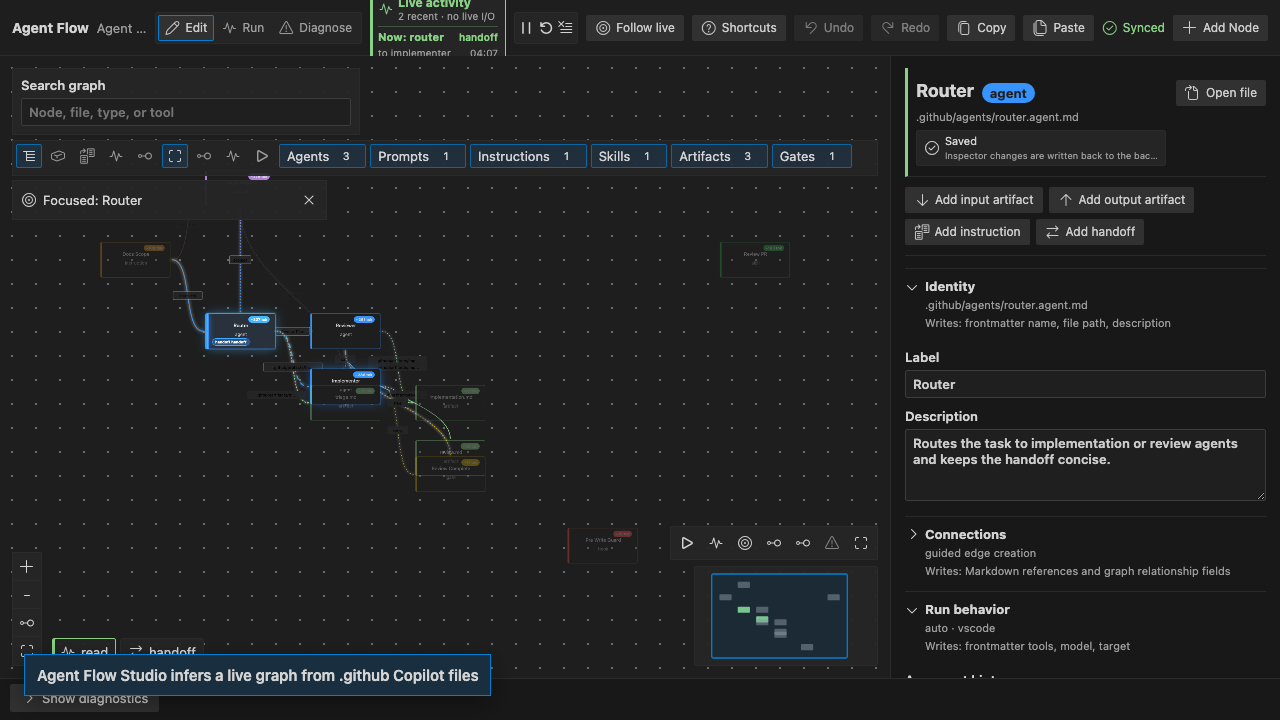
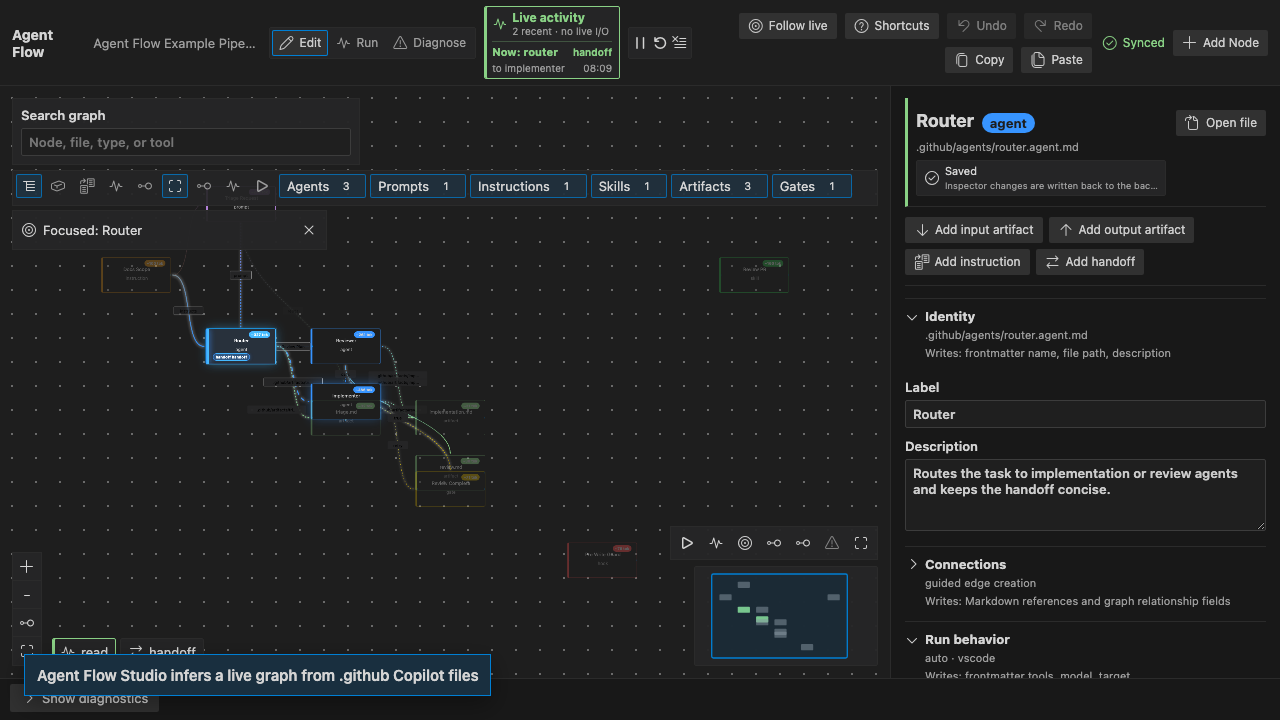
Keep toolbar usable in narrow editor widths

diff --git a/src/webview/main.tsx b/src/webview/main.tsx
@@ -819,20 +819,28 @@ function FlowApp({ state, draft, selected, selectedId, nodes, edges, activeNodeI
 
   return <div className={`app ${graphModeClassNames[graphMode]} ${readingLevelClassNames[graphReadingLevel]} ${bottomOpen ? 'bottom-open' : 'bottom-collapsed'} ${inspectorOpen ? 'inspector-open' : 'inspector-closed'}`} style={appStyle}>
     <header className="toolbar">
-      <strong>Agent Flow</strong>
-      <span>{draft.name}</span>
-      <GraphModeSwitch mode={graphMode} onChange={changeGraphMode} />
-      <ActivityHud state={activityHud} onOpen={() => openActivityForNode()} />
-      <ActivityPlaybackControls paused={activityPaused} mode={activityPlayback.mode} replayEventId={activityPlayback.replayEventId} latestEventId={activityTrail[0]?.id} onClear={() => { setReplayEventId(undefined); vscode?.postMessage({ command: 'clearActivity' }); }} onPauseToggle={() => setActivityPaused((paused) => !paused)} onReplayLatest={() => activityTrail[0] && setReplayEventId(activityTrail[0].id)} onStopReplay={() => setReplayEventId(undefined)} />
-      <VSCodeButton className={`compact follow-live-toggle${followLiveActivity ? ' active' : ''}`} icon="target" aria-pressed={followLiveActivity} onClick={() => setFollowLiveActivity((enabled) => { if (!enabled) userViewportInteracted.current = false; return !enabled; })} title="Follow live activity without changing zoom">Follow live</VSCodeButton>
-      <VSCodeButton className="compact" icon="question" aria-keyshortcuts="?" onClick={() => setShortcutsOpen((open) => !open)} title="Keyboard shortcuts">Shortcuts</VSCodeButton>
-      <VSCodeButton className="compact" icon="discard" aria-keyshortcuts="Control+Z Meta+Z" onClick={undoLast} disabled={!canUndo} title="Undo last graph change">Undo</VSCodeButton>
-      <VSCodeButton className="compact" icon="redo" aria-keyshortcuts="Control+Y Meta+Y" onClick={redoLast} disabled={!canRedo} title="Redo last graph change">Redo</VSCodeButton>
-      <VSCodeButton className="compact" icon="copy" aria-keyshortcuts="Control+C Meta+C" onClick={copySelection} disabled={!selectedId} title="Copy selected node">Copy</VSCodeButton>
-      <VSCodeButton className="compact" icon="files" aria-keyshortcuts="Control+V Meta+V" onClick={pasteSelection} disabled={!canPaste} title="Paste copied node">Paste</VSCodeButton>
-      <SyncStatusIndicator status={syncStatus} />
-      {creationFeedback && <span className="creation-feedback" role="status"><Codicon name="pass" />{creationFeedback}</span>}
-      <div className="add-node-menu" ref={addNodeMenuRef}><VSCodeButton className="compact" icon="add" aria-haspopup="menu" aria-expanded={addNodeMenuOpen} onClick={() => { setAddNodeMenuOpen((open) => !open); setPendingNodeConnection(undefined); }}>Add Node</VSCodeButton>{addNodeMenuOpen && <div className="add-node-popover" role="menu" aria-label="Add node">{nodeCreationDraft && nodeCreationPreview ? <NodeCreationForm draft={nodeCreationDraft} preview={nodeCreationPreview} connectFromLabel={nodeCreationDraft.connectFrom ? draft.nodes.find((node) => node.id === nodeCreationDraft.connectFrom)?.label : undefined} onCancel={() => setNodeCreationDraft(undefined)} onChange={setNodeCreationDraft} onCreate={confirmNodeCreation} /> : <>{nodePaletteGroups.map((group) => <section className="node-palette-group" key={group.label}><h3>{group.label}</h3>{group.types.map((type) => <div className="node-palette-item" key={type}><button type="button" role="menuitem" onClick={() => beginNodeCreation(type)}><Codicon name={nodeTypeIcons[type]} /><span>{nodeTypeLabel(type)}</span><small>{nodeTypeDescription(type)}</small></button>{selected && <button type="button" className="node-palette-connect" onClick={() => beginNodeCreation(type, selected.id)} title={`Connect from selected ${selected.label}`}><Codicon name="link" /><span>Connect from selected</span></button>}</div>)}</section>)}{pendingNodeConnection && <ConnectionIntentChooser pending={pendingNodeConnection} source={draft.nodes.find((node) => node.id === pendingNodeConnection.sourceId)} onCancel={() => setPendingNodeConnection(undefined)} onCreateOnly={() => { addNode(pendingNodeConnection.targetNode); setCreationFeedback(`Created ${nodeFileSummary(pendingNodeConnection.targetNode)}`); setPendingNodeConnection(undefined); setAddNodeMenuOpen(false); }} onCreateAndConnect={(kind) => { addNode(pendingNodeConnection.targetNode, pendingNodeConnection.sourceId, kind); setCreationFeedback(`Created ${nodeFileSummary(pendingNodeConnection.targetNode)}`); setPendingNodeConnection(undefined); setAddNodeMenuOpen(false); }} />}</>}</div>}</div>
+      <div className="toolbar-brand">
+        <strong>Agent Flow</strong>
+        <span>{draft.name}</span>
+      </div>
+      <div className="toolbar-workflow">
+        <GraphModeSwitch mode={graphMode} onChange={changeGraphMode} />
+        <ActivityHud state={activityHud} onOpen={() => openActivityForNode()} />
+        <ActivityPlaybackControls paused={activityPaused} mode={activityPlayback.mode} replayEventId={activityPlayback.replayEventId} latestEventId={activityTrail[0]?.id} onClear={() => { setReplayEventId(undefined); vscode?.postMessage({ command: 'clearActivity' }); }} onPauseToggle={() => setActivityPaused((paused) => !paused)} onReplayLatest={() => activityTrail[0] && setReplayEventId(activityTrail[0].id)} onStopReplay={() => setReplayEventId(undefined)} />
+      </div>
+      <div className="toolbar-actions">
+        <VSCodeButton className={`compact follow-live-toggle${followLiveActivity ? ' active' : ''}`} icon="target" aria-pressed={followLiveActivity} onClick={() => setFollowLiveActivity((enabled) => { if (!enabled) userViewportInteracted.current = false; return !enabled; })} title="Follow live activity without changing zoom">Follow live</VSCodeButton>
+        <VSCodeButton className="compact" icon="question" aria-keyshortcuts="?" onClick={() => setShortcutsOpen((open) => !open)} title="Keyboard shortcuts">Shortcuts</VSCodeButton>
+        <VSCodeButton className="compact" icon="discard" aria-keyshortcuts="Control+Z Meta+Z" onClick={undoLast} disabled={!canUndo} title="Undo last graph change">Undo</VSCodeButton>
+        <VSCodeButton className="compact" icon="redo" aria-keyshortcuts="Control+Y Meta+Y" onClick={redoLast} disabled={!canRedo} title="Redo last graph change">Redo</VSCodeButton>
+        <VSCodeButton className="compact" icon="copy" aria-keyshortcuts="Control+C Meta+C" onClick={copySelection} disabled={!selectedId} title="Copy selected node">Copy</VSCodeButton>
+        <VSCodeButton className="compact" icon="files" aria-keyshortcuts="Control+V Meta+V" onClick={pasteSelection} disabled={!canPaste} title="Paste copied node">Paste</VSCodeButton>
+      </div>
+      <div className="toolbar-status-row">
+        <SyncStatusIndicator status={syncStatus} />
+        {creationFeedback && <span className="creation-feedback" role="status"><Codicon name="pass" />{creationFeedback}</span>}
+        <div className="add-node-menu" ref={addNodeMenuRef}><VSCodeButton className="compact" icon="add" aria-haspopup="menu" aria-expanded={addNodeMenuOpen} onClick={() => { setAddNodeMenuOpen((open) => !open); setPendingNodeConnection(undefined); }}>Add Node</VSCodeButton>{addNodeMenuOpen && <div className="add-node-popover" role="menu" aria-label="Add node">{nodeCreationDraft && nodeCreationPreview ? <NodeCreationForm draft={nodeCreationDraft} preview={nodeCreationPreview} connectFromLabel={nodeCreationDraft.connectFrom ? draft.nodes.find((node) => node.id === nodeCreationDraft.connectFrom)?.label : undefined} onCancel={() => setNodeCreationDraft(undefined)} onChange={setNodeCreationDraft} onCreate={confirmNodeCreation} /> : <>{nodePaletteGroups.map((group) => <section className="node-palette-group" key={group.label}><h3>{group.label}</h3>{group.types.map((type) => <div className="node-palette-item" key={type}><button type="button" role="menuitem" onClick={() => beginNodeCreation(type)}><Codicon name={nodeTypeIcons[type]} /><span>{nodeTypeLabel(type)}</span><small>{nodeTypeDescription(type)}</small></button>{selected && <button type="button" className="node-palette-connect" onClick={() => beginNodeCreation(type, selected.id)} title={`Connect from selected ${selected.label}`}><Codicon name="link" /><span>Connect from selected</span></button>}</div>)}</section>)}{pendingNodeConnection && <ConnectionIntentChooser pending={pendingNodeConnection} source={draft.nodes.find((node) => node.id === pendingNodeConnection.sourceId)} onCancel={() => setPendingNodeConnection(undefined)} onCreateOnly={() => { addNode(pendingNodeConnection.targetNode); setCreationFeedback(`Created ${nodeFileSummary(pendingNodeConnection.targetNode)}`); setPendingNodeConnection(undefined); setAddNodeMenuOpen(false); }} onCreateAndConnect={(kind) => { addNode(pendingNodeConnection.targetNode, pendingNodeConnection.sourceId, kind); setCreationFeedback(`Created ${nodeFileSummary(pendingNodeConnection.targetNode)}`); setPendingNodeConnection(undefined); setAddNodeMenuOpen(false); }} />}</>}</div>}</div>
+      </div>
     </header>
     {shortcutsOpen && <ShortcutsHelp onClose={() => setShortcutsOpen(false)} />}
     {syncBanner && <SyncTrustBanner banner={syncBanner} onDismiss={() => setSyncBanner(undefined)} onOpenDiagnostics={() => { setBottomOpen(true); setActiveTab('validation'); }} onReloadGraph={() => vscode?.postMessage({ command: 'runCommand', name: 'agentflow.scanWorkspace' })} onReviewChanges={() => editingConflict ? onOpenConflictDiff() : (setBottomOpen(true), setActiveTab('files'))} />}

diff --git a/src/webview/styles.css b/src/webview/styles.css
@@ -6,17 +6,23 @@
   --agentflow-inspector-width: 390px;
   --agentflow-bottom-height: 250px;
   --agentflow-current-bottom-height: 42px;
+  --agentflow-toolbar-min-height: 56px;
 }
 #root { position: fixed; inset: 0; }
 html, body, #root { width: 100%; height: 100%; margin: 0; padding: 0; overflow: hidden; }
 body { font-family: var(--vscode-font-family, system-ui); font-size: var(--vscode-font-size, 13px); background: var(--vscode-editor-background); color: var(--vscode-foreground, var(--vscode-editor-foreground)); }
-.app { position: relative; display: grid; grid-template-columns: minmax(0, 1fr) var(--agentflow-inspector-width); grid-template-rows: 56px minmax(var(--agentflow-canvas-min-height), 1fr) 42px; min-height: calc(56px + var(--agentflow-canvas-min-height) + 42px); height: 100%; background: var(--vscode-editor-background); }
-.app.bottom-open { --agentflow-current-bottom-height: var(--agentflow-bottom-height); grid-template-rows: 56px minmax(var(--agentflow-canvas-min-height), 1fr) var(--agentflow-bottom-height); min-height: calc(56px + var(--agentflow-canvas-min-height) + var(--agentflow-bottom-height)); }
+.app { position: relative; display: grid; grid-template-columns: minmax(0, 1fr) var(--agentflow-inspector-width); grid-template-rows: minmax(var(--agentflow-toolbar-min-height), auto) minmax(var(--agentflow-canvas-min-height), 1fr) 42px; min-height: calc(var(--agentflow-toolbar-min-height) + var(--agentflow-canvas-min-height) + 42px); height: 100%; background: var(--vscode-editor-background); }
+.app.bottom-open { --agentflow-current-bottom-height: var(--agentflow-bottom-height); grid-template-rows: minmax(var(--agentflow-toolbar-min-height), auto) minmax(var(--agentflow-canvas-min-height), 1fr) var(--agentflow-bottom-height); min-height: calc(var(--agentflow-toolbar-min-height) + var(--agentflow-canvas-min-height) + var(--agentflow-bottom-height)); }
 .app.inspector-closed { grid-template-columns: 1fr; }
 .app.inspector-closed .toolbar, .app.inspector-closed .bottom { grid-column: 1; }
-.toolbar { grid-column: 1 / 3; display: flex; align-items: center; gap: 8px; padding: 0 12px; border-bottom: 1px solid var(--agentflow-border); background: var(--vscode-editorGroupHeader-tabsBackground, var(--vscode-titleBar-activeBackground)); color: var(--vscode-foreground); }
+.toolbar { grid-column: 1 / 3; display: flex; align-items: center; flex-wrap: wrap; gap: 8px 10px; min-width: 0; min-height: var(--agentflow-toolbar-min-height); padding: 6px 12px; border-bottom: 1px solid var(--agentflow-border); background: var(--vscode-editorGroupHeader-tabsBackground, var(--vscode-titleBar-activeBackground)); color: var(--vscode-foreground); }
 .toolbar strong { font-size: 14px; }
-.toolbar > span { flex: 1; color: var(--vscode-descriptionForeground); overflow: hidden; text-overflow: ellipsis; white-space: nowrap; }
+.toolbar-brand { display: inline-flex; align-items: center; gap: 8px; min-width: 0; flex: 1 1 180px; }
+.toolbar-brand > span { min-width: 0; color: var(--vscode-descriptionForeground); overflow: hidden; text-overflow: ellipsis; white-space: nowrap; }
+.toolbar-workflow, .toolbar-actions, .toolbar-status-row { display: inline-flex; align-items: center; gap: 8px; min-width: 0; }
+.toolbar-workflow { flex: 1 1 360px; }
+.toolbar-actions { flex: 1 1 320px; justify-content: flex-end; flex-wrap: wrap; }
+.toolbar-status-row { flex: 0 1 auto; margin-left: auto; flex-wrap: wrap; justify-content: flex-end; }
 .toolbar .autosave-status { display: inline-flex; align-items: center; gap: 5px; flex: 0 0 auto; font-size: 12px; }
 .autosave-status.sync-status-synced { color: var(--vscode-charts-green, #89d185); }
 .autosave-status.sync-status-saving, .autosave-status.sync-status-reading-workspace { color: var(--vscode-charts-blue, var(--vscode-focusBorder)); }
@@ -273,6 +279,7 @@ button:focus-visible, input:focus-visible, textarea:focus-visible, select:focus-
 .button-secondary { background: var(--vscode-button-secondaryBackground, var(--vscode-editorWidget-background)); color: var(--vscode-button-secondaryForeground, var(--vscode-foreground)); }
 .codicon { color: currentColor; font-size: 14px; line-height: 1; }
 .toolbar button { width: auto; white-space: nowrap; }
+.toolbar .add-node-menu { flex: 0 0 auto; }
 .vscode-button.compact { padding: 3px 8px; font-size: 12px; }
 .add-node-menu { position: relative; flex: 0 0 auto; }
 .add-node-popover { position: absolute; top: calc(100% + 5px); right: 0; z-index: 20; display: grid; min-width: 260px; max-height: min(420px, calc(100vh - 90px)); overflow: auto; padding: 4px; border: 1px solid var(--vscode-quickInputList-focusBackground, var(--agentflow-border)); border-radius: var(--agentflow-control-radius); background: var(--vscode-quickInput-background, var(--vscode-editorWidget-background)); box-shadow: 0 8px 20px var(--vscode-widget-shadow, rgba(0,0,0,.35)); }
@@ -659,4 +666,11 @@ input[type="checkbox"] { accent-color: var(--vscode-checkbox-selectBackground, v
 @media (prefers-reduced-motion: reduce) {
   .flow-node.has-activity, .activity-started, .activity-thinking, .activity-tool, .activity-file, .activity-artifact, .graph-edge.animated .graph-edge-path { animation: none; }
   .graph-edge-tracer { display: none; }
+}
+@media (max-width: 720px) {
+  .toolbar { align-items: stretch; }
+  .toolbar-brand, .toolbar-workflow, .toolbar-actions, .toolbar-status-row { flex: 1 1 100%; }
+  .toolbar-workflow, .toolbar-actions, .toolbar-status-row { flex-wrap: wrap; justify-content: flex-start; }
+  .toolbar-status-row { margin-left: 0; }
+  .activity-hud { flex: 1 1 220px; max-width: none; }
 }

diff --git a/test/webviewAssets.test.ts b/test/webviewAssets.test.ts
@@ -25,6 +25,22 @@ describe('webview assets', () => {
     expect(webviewSource).not.toContain('className="node-buttons"');
   });
 
+  test('wraps top toolbar groups so narrow widths keep controls reachable', () => {
+    const webviewSource = readFileSync('src/webview/main.tsx', 'utf8');
+    const css = readFileSync('src/webview/styles.css', 'utf8');
+
+    expect(webviewSource).toContain('toolbar-brand');
+    expect(webviewSource).toContain('toolbar-workflow');
+    expect(webviewSource).toContain('toolbar-actions');
+    expect(webviewSource).toContain('toolbar-status-row');
+    expect(css).toContain('--agentflow-toolbar-min-height: 56px');
+    expect(css).toContain('grid-template-rows: minmax(var(--agentflow-toolbar-min-height), auto) minmax(var(--agentflow-canvas-min-height), 1fr) 42px');
+    expect(css).toContain('.toolbar { grid-column: 1 / 3; display: flex; align-items: center; flex-wrap: wrap;');
+    expect(css).toContain('@media (max-width: 720px) {');
+    expect(css).toContain('.toolbar-brand, .toolbar-workflow, .toolbar-actions, .toolbar-status-row { flex: 1 1 100%; }');
+    expect(css).toContain('.activity-hud { flex: 1 1 220px; max-width: none; }');
+  });
+
   test('waits for Add Node palette headings with selector-based capture checks', () => {
     const captureScript = readFileSync('scripts/capture-preview-gif.mjs', 'utf8');
 
@@ -153,7 +169,7 @@ describe('webview assets', () => {
     expect(webviewSource).toContain('ResizeObserver');
     expect(css).toContain('#root { position: fixed; inset: 0; }');
     expect(css).toContain('--agentflow-canvas-min-height: 360px');
-    expect(css).toContain('grid-template-rows: 56px minmax(var(--agentflow-canvas-min-height), 1fr) 42px');
+    expect(css).toContain('grid-template-rows: minmax(var(--agentflow-toolbar-min-height), auto) minmax(var(--agentflow-canvas-min-height), 1fr) 42px');
     expect(css).toContain('min-height: var(--agentflow-canvas-min-height)');
     expect(css).toContain('.debug-overlay');
     expect(css).toContain('.native-graph');
@@ -591,7 +607,7 @@ describe('webview assets', () => {
     expect(source).toContain('--agentflow-inspector-width');
     expect(source).toContain('--agentflow-bottom-height');
     expect(css).toContain('grid-template-columns: minmax(0, 1fr) var(--agentflow-inspector-width)');
-    expect(css).toContain('grid-template-rows: 56px minmax(var(--agentflow-canvas-min-height), 1fr) var(--agentflow-bottom-height)');
+    expect(css).toContain('grid-template-rows: minmax(var(--agentflow-toolbar-min-height), auto) minmax(var(--agentflow-canvas-min-height), 1fr) var(--agentflow-bottom-height)');
     expect(css).toContain('.panel-resize-handle');
     expect(css).toContain('cursor: col-resize');
     expect(css).toContain('cursor: row-resize');

diff --git a/CHANGELOG.md b/CHANGELOG.md
@@ -2,6 +2,7 @@
 
 ## Unreleased
 
+- Wrap the top toolbar into responsive groups so live activity, sync state, and actions stay reachable in narrow editor widths.
 - Condense the top activity HUD copy and timestamp layout so the toolbar status stays readable in the 1280px smoke and Marketplace capture viewport.
 - Fix the Marketplace preview capture script so Add Node palette steps wait for selector-backed headings and generated-file previews instead of unreliable global body text.
 - Prioritize the meaningful starter flow when auto-fitting the first graph viewport so default pipelines open at a readable scale.